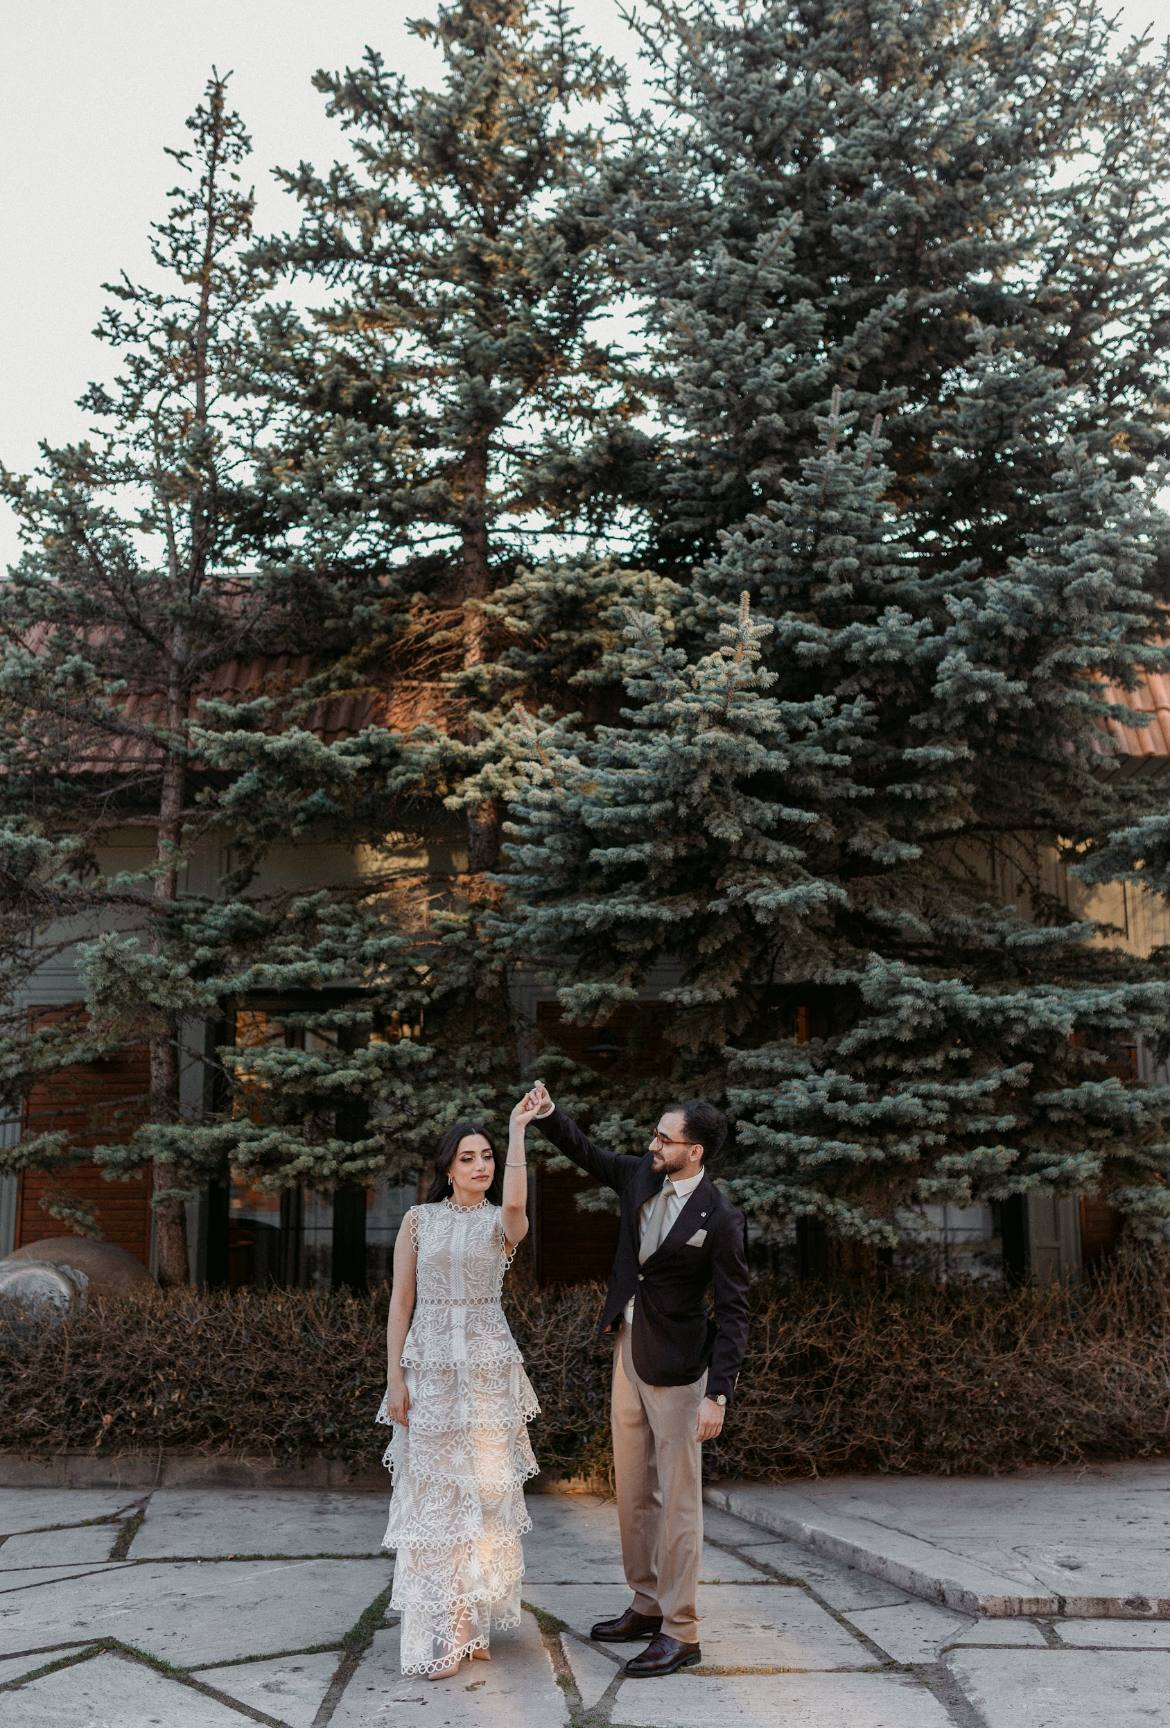
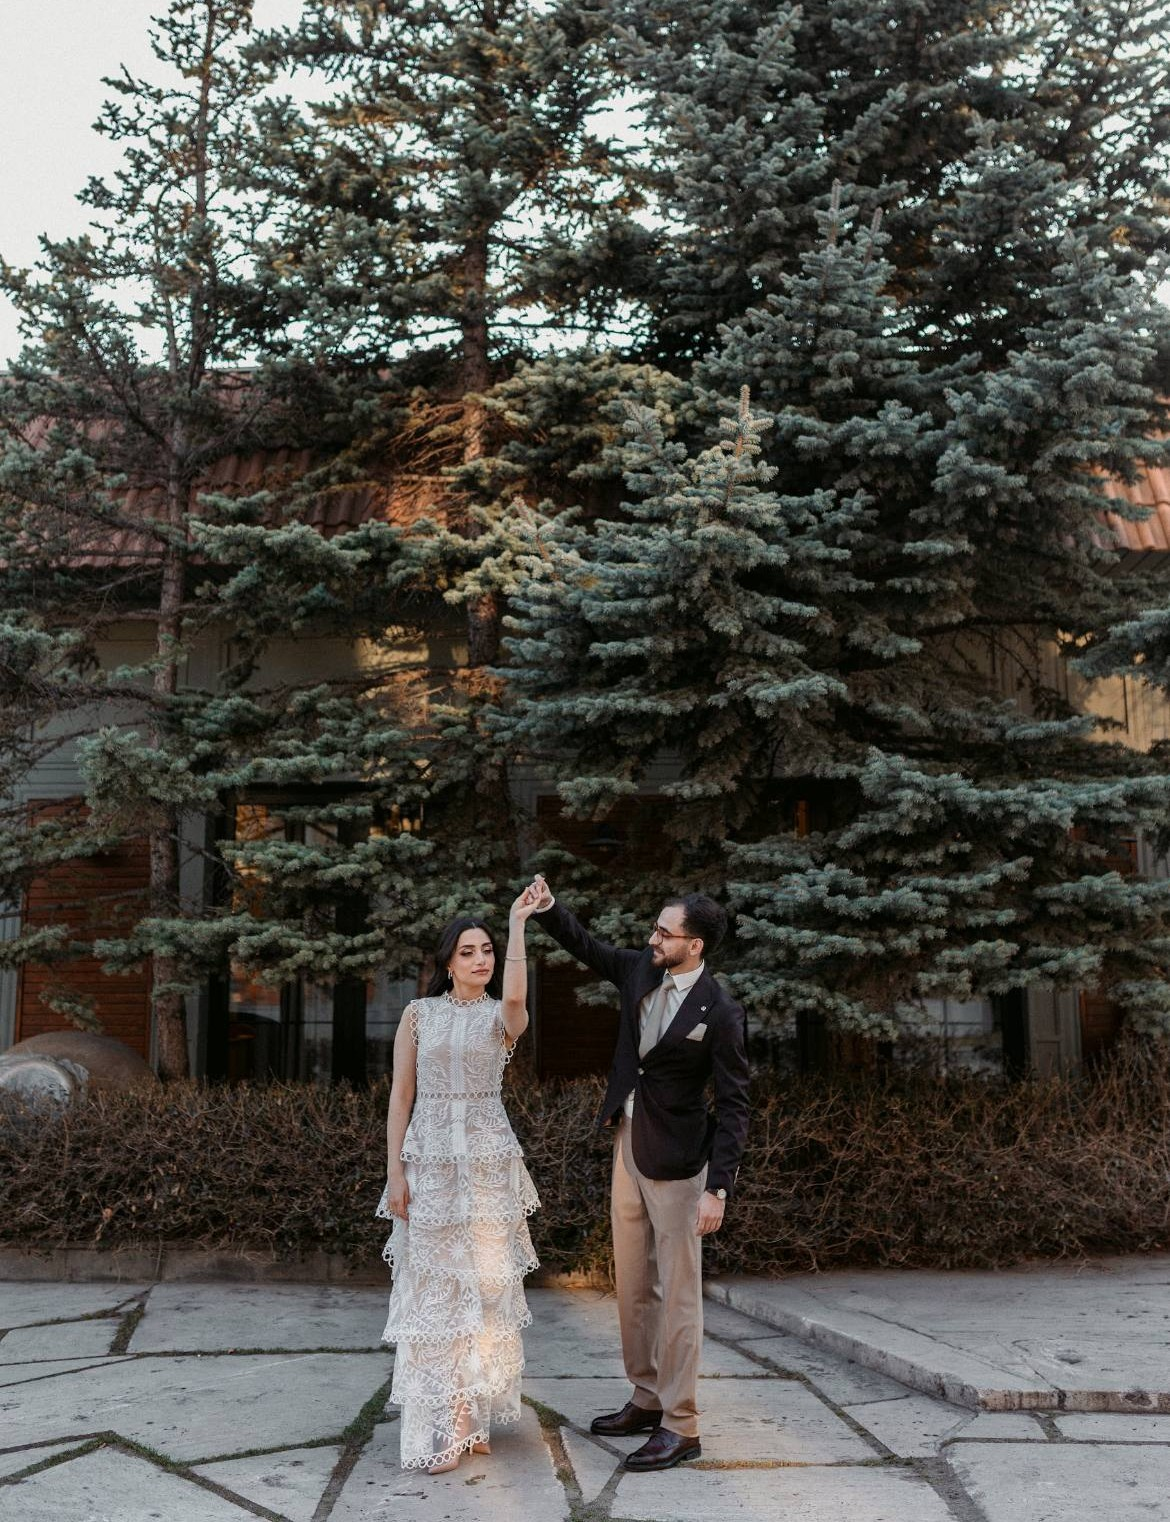
we

diff --git a/src/components/second-page/index.jsx b/src/components/second-page/index.jsx
@@ -6,7 +6,7 @@ import BlockImage from "../../assets/image/blockimage.jpg";
 import PhotoF1 from "../../assets/image/photof1.jpg";
 import PhotoGroup1 from "../../assets/image/groupphoto1.jpg";
 import PhotoGroup2 from "../../assets/image/groupphoto2.jpg";
-import PhotoGroup3 from "../../assets/image/groupphoto3.jpg";
+import PhotoGroup3 from "../../assets/image/photof3.jpg";
 import { ThirdPagePartCalendar } from "../third-page/styled";
 import { TextShadow } from "../TextShadow";
 
